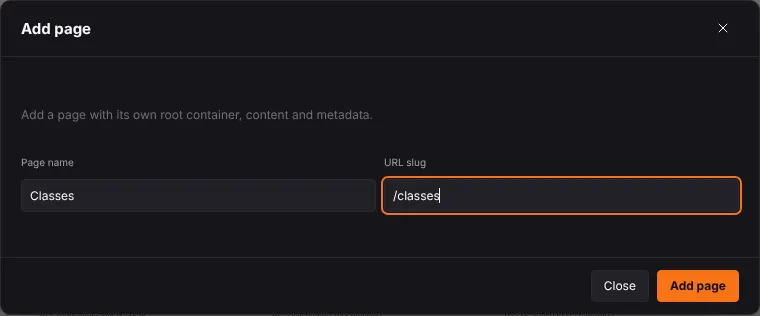
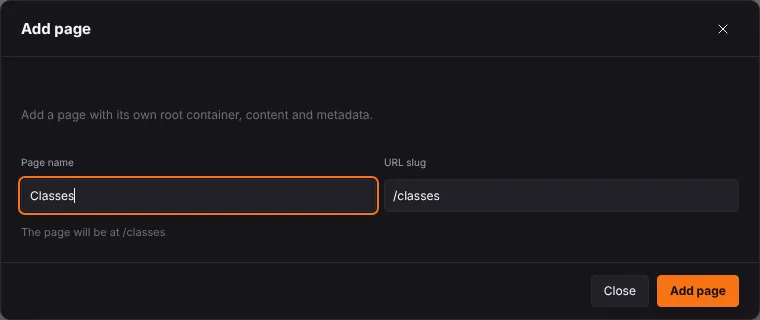
docs: Add page's slug follows the name and a taken address is refused, in the guide with its picture retaken and in the manual

diff --git a/docs/MANUAL.md b/docs/MANUAL.md
@@ -85,7 +85,7 @@ A page's background is the background of its root element. A new page has none, 
 
 Insert adds primitives such as a section, text, grid, image or form into the selected structure. Image insert opens a file picker for PNG, JPEG, WebP or GIF up to 8 MiB; Content > Upload image replaces the selected image. A new image has no alt attribute until you describe it, so the audit lists it ("Image needs alt text (empty alt is valid for decoration)"). Type the description in Content > Alternative text; clearing the field removes the attribute again. For a picture that carries no meaning, tick Decorative image (no description) under the field: it writes an empty `alt=""` on purpose, which screen readers skip and the audit accepts, and turns the text field off until you untick it. Sites made before this keep their images exactly as they were. Uploaded raster files are validated, stored locally and bundled into website export. Layers supports ordering and moving elements under a parent. Edit > Duplicate element (`Mod+D`) and the Duplicate item in the layers context menu copy the selected element with everything attached to it (motion, code sections, variables) and select the copy, which lands right after the original; one undo removes it. Both are disabled for a page root (use the page's own duplicate) and inside a linked component instance, and the item's title says why. `Shift+Mod+D` always duplicates, including while a vector transform is repeatable and `Mod+D` runs Transform again. Edit > Copy element (`Mod+C`), Cut element (`Mod+X`) and Paste element (`Mod+V`), also in the layers context menu, move an element through the system clipboard as fragment JSON that carries its motion, code, variables, page components and picture references. Paste inserts after the selected element under its parent, or last in the page root, with fresh ids, and selects the pasted element; it works on the same page, another page and another site on this FormWeb. Copy and Cut also embed the pictures (up to 16 MiB), so the copy pastes in another FormWeb installation too; the status says how many pictures were too large to embed, and a refused paste shows the reason in the status. Cut is a copy followed by a remove, and each paste or cut is one undo step. While text is selected outside the canvas, `Mod+C` and `Mod+X` stay with the browser so you can copy that text, and `Mod+V` uses the browser's paste event, so it needs no clipboard permission; the menu items read the clipboard and tell you how to allow it if the browser refuses. Clipboard text that is not a fragment does nothing. A paste keeps the site's own code component or variable when its name already exists with a different definition, and says so; the fragment also carries the design tokens, text presets and themes the element uses and the CMS collections it is bound to and any collections those refer to, the variables its set-variable actions name, and its form configuration (past 500 items a collection travels as its first 500 plus every item a binding, list filter or reference names, with a warning counting the rest), and a paste adds what the site lacks and keeps the site's own on a name clash with a different value, with a warning for each clash; code sections need the site to allow them; pasted pictures must exist on this FormWeb; and a page root, an element inside a linked component instance and more than 2,000 elements cannot be copied. Copy and Cut keep large pictures and videos behind a 15-minute clip link on this FormWeb, so the element also pastes in another FormWeb on the same computer while this one is running; the status says how many assets will only paste on this computer. Images are limited to 8 MiB and videos to 64 MiB. A paste streams each clip asset to disk and checks it as it arrives, so a very large video does not fill memory, and nothing is stored if the paste is refused. A copy of a copy keeps a short element id (the earlier -copy-N or -page-N ending is replaced rather than extended), and labels, aria-labelledby, #links and button actions inside the copy point at the copy's own elements; ids you wrote yourself, such as step-copy, are never shortened. Since 0.20.3 a copy also carries the ids of the element's ancestors at the source, so a child you copied out of an earlier copy and paste into another site swaps its ending at once (label-copy-1 becomes label-copy-2, not label-copy-1-copy-2). A copied element keeps its behavior actions. The inspector's Design and Content surfaces change styles, attributes and text; the Page surface changes route metadata.
 
-The plus button in the Layers header opens Quick insert, a small flyout under the button (above it when there is no room below) that lists the Insert panel's Elements, Sections and Components. Type in the filter to narrow the list, move with Up and Down (the highlight wraps), and press Enter or click to insert; Escape, a click elsewhere or Tab closes it and Escape or Tab returns focus to the plus button. The choice is inserted exactly as the Insert panel would insert it: elements into the selected container, a section after the selected top-level section, a component instance into the selected container, each as one undo step. The last row, All elements and components..., opens the full Insert panel, which also holds Starter pages and Capture selection. Insert > Quick insert (`Mod+Shift+L`, command `insert.quick`) opens the same flyout, showing the left panel first when it is collapsed. The plus button next to Pages still opens the Add page dialog.
+The plus button in the Layers header opens Quick insert, a small flyout under the button (above it when there is no room below) that lists the Insert panel's Elements, Sections and Components. Type in the filter to narrow the list, move with Up and Down (the highlight wraps), and press Enter or click to insert; Escape, a click elsewhere or Tab closes it and Escape or Tab returns focus to the plus button. The choice is inserted exactly as the Insert panel would insert it: elements into the selected container, a section after the selected top-level section, a component instance into the selected container, each as one undo step. The last row, All elements and components..., opens the full Insert panel, which also holds Starter pages and Capture selection. Insert > Quick insert (`Mod+Shift+L`, command `insert.quick`) opens the same flyout, showing the left panel first when it is collapsed. The plus button next to Pages still opens the Add page dialog. There the URL slug follows the page name as you type (lower case, ASCII, words joined by hyphens, so "Café Menu" becomes `/cafe-menu`) until you edit the slug yourself, and a line under the fields shows the address that will be used, with the site's base URL once it is set. An address another page already uses, or one with characters an address cannot hold, is named on that line in red and the dialog stays open; nothing is renamed behind your back. With both fields empty the page is called Untitled page at `/untitled-page`.
 
 A website layout uses normal browser flow, flex and grid styles. Use meaningful element names and a clear hierarchy. A stored value becomes part of the site only after the engine acknowledges it. Invalid changes are reported; they do not replace the previous document.
 

diff --git a/docs/guide/01-first-site.md b/docs/guide/01-first-site.md
@@ -22,7 +22,7 @@ The site opens with one empty page, Home: its only layer is the page itself. In 
 
 1. In the left panel, click the **+** to the right of **PAGES**. The Add page dialog opens.
 2. In **Page name** type `Classes`.
-3. In **URL slug** type `/classes`. This is the page's address on your site. If you leave it empty the page gets `/new-page`.
+3. **URL slug** fills itself as you type the name: `/classes`. This is the page's address on your site, and the line under the fields shows the address that will be used. You can type your own slug; from then on it no longer follows the name. If the address is already taken by another page, that line says so in red and the dialog stays open until you choose another.
 4. Click **Add page**.
 
 ![The Add page dialog with Classes as the page name and /classes as the URL slug](images/first-site-add-page.webp)

diff --git a/docs/guide/02-pages-and-layers.md b/docs/guide/02-pages-and-layers.md
@@ -11,7 +11,7 @@ The page examples use **Harbour Ferries** and the layer examples use **Coldmere 
 ## Open, add and rename pages
 
 - Click a page in the PAGES list to open it on the canvas.
-- Click the **+** next to PAGES to add a page. You give it a name and a URL slug, its address such as `/about`.
+- Click the **+** next to PAGES to add a page. You give it a name, and the URL slug, its address such as `/about`, follows the name until you type your own. An address another page already has is refused before the dialog closes.
 - To rename a page, double-click its row, or click it and press F2. The name becomes a field: type the new name and press Enter. Escape keeps the old name. This changes the name only; the page's address is changed in **Page > Page settings**.
 
 ## The page menu
